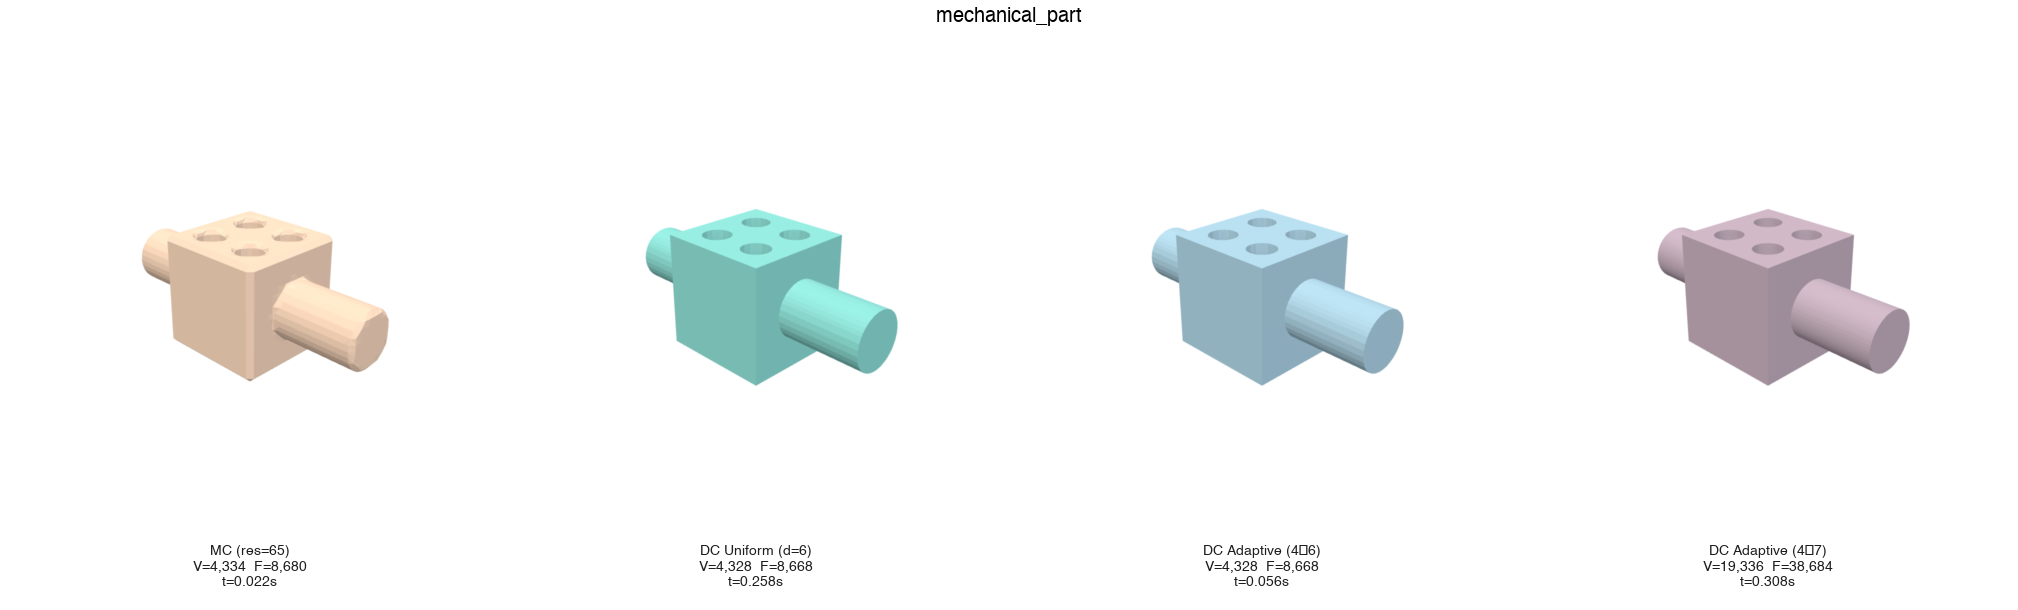
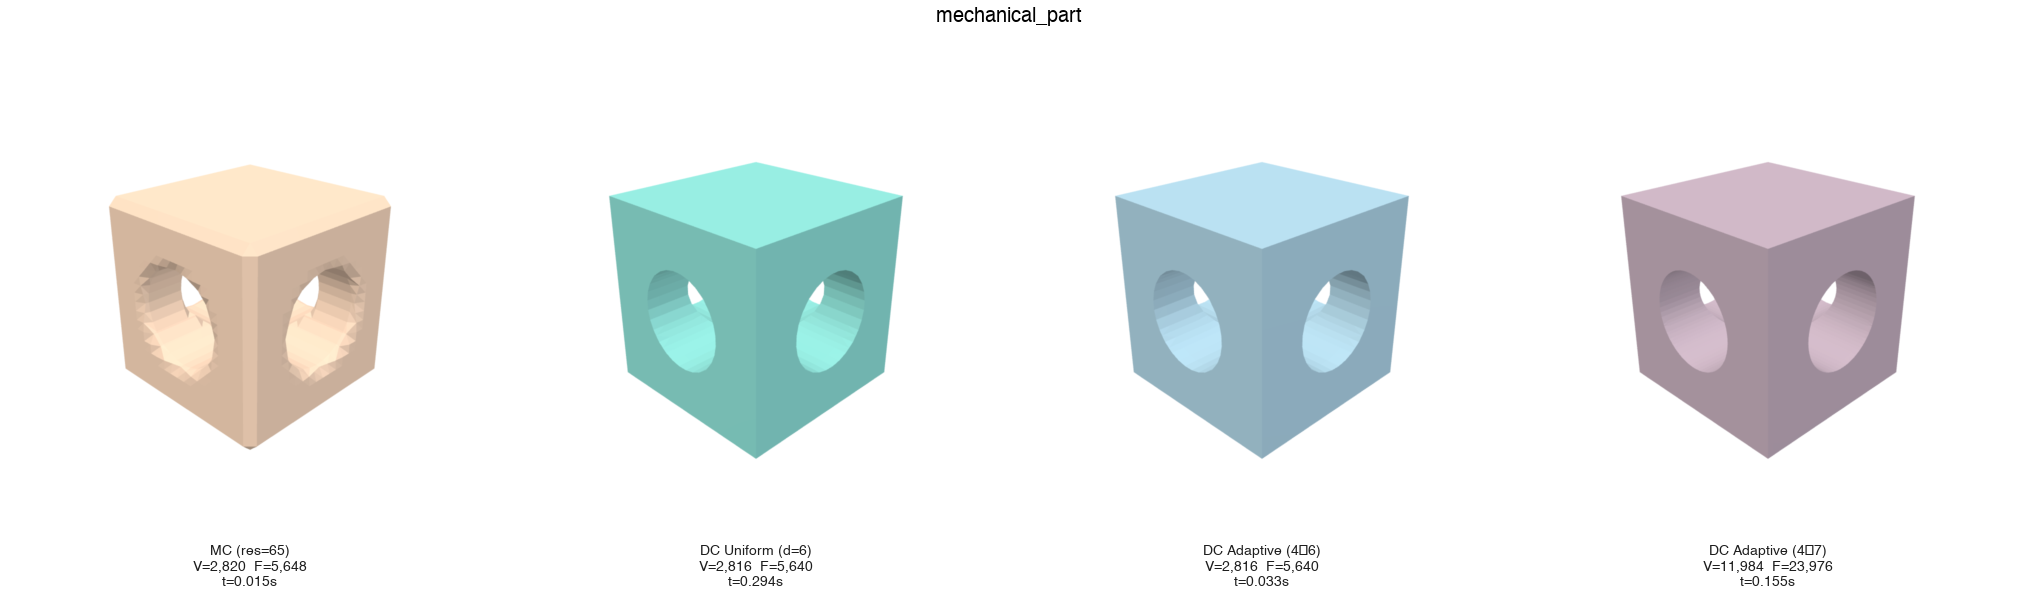
Change mechanical_part to box with two perpendicular through-holes
Replace 4 small same-direction cylinder holes with 2 large cylinders
punched through X and Y axes, matching the reference CAD design.

diff --git a/benchmarks/run_benchmark.py b/benchmarks/run_benchmark.py
@@ -136,15 +136,15 @@ def sdf_cylinder(pos, radius=0.5, half_height=1.0):
 
 
 def sdf_mechanical_part(pos):
-    """Box ∪ through-rod − 4 cylindrical holes. Typical mechanical part."""
+    """Box with two large through-holes in perpendicular directions."""
     d_box, _ = sdf_box(pos, np.array([0.4, 0.4, 0.4]))
-    d_rod = _sdf_capped_cylinder(pos, radius=0.2, half_height=1.0, axis=0)
-    d_union = np.minimum(d_box, d_rod)
-    for ox, oy in [(0.18, 0.18), (0.18, -0.18), (-0.18, 0.18), (-0.18, -0.18)]:
-        shifted = pos - np.array([ox, oy, 0.0])
-        d_hole = _sdf_capped_cylinder(shifted, radius=0.1, half_height=0.5, axis=2)
-        d_union = np.maximum(d_union, -d_hole)
-    return d_union, None
+    # Through-hole along X-axis
+    d_hole_x = _sdf_capped_cylinder(pos, radius=0.2, half_height=1.0, axis=0)
+    # Through-hole along Y-axis
+    d_hole_y = _sdf_capped_cylinder(pos, radius=0.2, half_height=1.0, axis=1)
+    d_result = np.maximum(d_box, -d_hole_x)
+    d_result = np.maximum(d_result, -d_hole_y)
+    return d_result, None
 
 
 def sdf_thin_shell_hemi(pos, R=1.0, wall=0.08):
